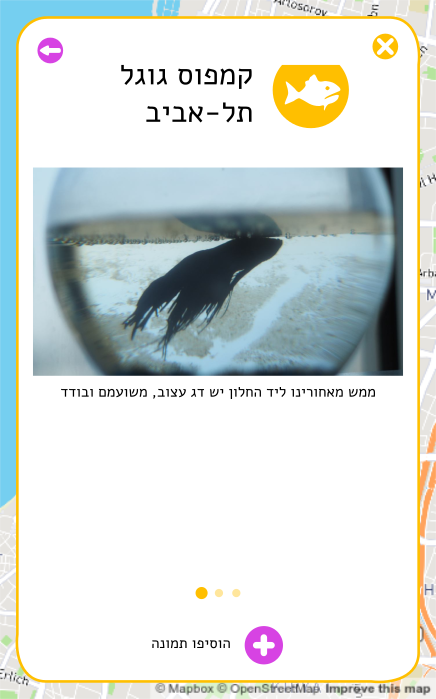
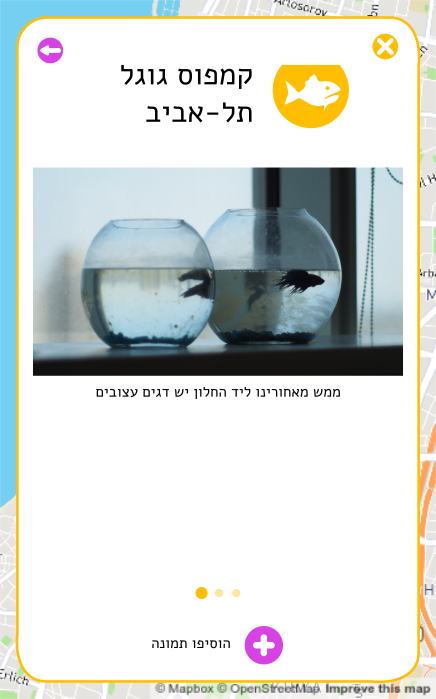
almost finished :) all mockups are in

Changed region(s): [[0.0596, 0.2403, 0.9243, 0.5708]]

diff --git a/index.html b/index.html
@@ -45,57 +45,31 @@
         </div>
 
         <div id="title2" class="step" data-x="0" data-y="0" data-rotate-x="90" data-scale="8">
-            <img class="mockup-screen" src="images/opening-splash.png"/>
+            <img class="mockup-screen" src="images/good-only.png"/>
         </div>
 
         <div id="title3" class="step" data-x="0" data-y="0" data-rotate-x="90" data-rotate-y="90" data-scale="8">
+            <img class="mockup-screen" src="images/all-places.png"/>
+        </div>
+
+        <div id="title4" class="step" data-x="850" data-y="3000" data-rotate="90" data-scale="2">
             <img class="mockup-screen" src="images/tara.png"/>
         </div>
 
-        <div id="its" class="step" data-x="850" data-y="3000" data-rotate="90" data-scale="2">
-            <p>They are a nice social networks feature but they are not a real <strong> measuring tool...</strong>
-                <br/>
+        <div id="title5" class="step" data-x="850" data-y="3000" data-rotate="90" data-scale="2">
+            <img class="mockup-screen" src="images/conversation.png"/>
         </div>
 
-
-        <div id="its-in-3d" class="step" data-x="850" data-y="7500" data-rotate="90" data-rotate-x="-40" data-rotate-y="10" data-scale="6">
-            <p>after all - we do have information about <span class="have"># of commits</span>, <span class="you">issues</span>, <span class="noticed">pull requests</span>...</p>
-            <p>they might be more useful when we are looking at a project</p>
+        <div id="title6" class="step" data-x="850" data-y="3000" data-rotate="90" data-scale="2">
+            <img class="mockup-screen" src="images/office.png"/>
         </div>
 
-        <div class="step" data-x="-3000" data-y="7500" data-rotate="90" data-scale="7">
-            <q>So here are some GitHub Trending information from now</q>
-            <!-- <img src="images/Trending_repositories_on_GitHub_today.png"/> -->
+        <div id="title6" class="step" data-x="850" data-y="3000" data-rotate="90" data-scale="2">
+            <img class="mockup-screen" src="images/fish.png"/>
         </div>
 
-        <div class="step technology" data-x="-18500" data-y="7500" data-rotate="0" data-scale="5">
-            <h2>Periodic System</h2>
-            <p>every 6 hours:</p>
-            <ol>
-                <li>- scrapes the GitHub tranding page and pass projects to the scrapers</li>
-                <li>- removes project from the DB to keep the 500 with highest Krihelimeters</li>
-                <li>- re-analyses (re-scrape all the projects from the DB)</li>
-            </ol>
-            <!-- <img src="images/Trending_repositories_on_GitHub_today.png"/> -->
-        </div>
-
-        <div class="step technology" data-x="-7500" data-y="7500" data-rotate="0" data-scale="5">
-            <img src="images/krihelinator.svg" height="700px" />
-        </div>
-
-        <div id="impress" class="step slide" data-x="-10000" data-y="10000">
-            <q>Thanks!<br>
-        <p>The Krihelinator</p>
-        </q>
-            <blockquote>
-                "Trendiness of OSS should be assessed by contribution rate, not by stars"
-                <br>
-                <span class="quotes">- Meir Kriheli (meirkriheli.com)</span>
-            </blockquote>
-            <br>
-            <href a src="http://krihelinator.xyz/">Live at: http://krihelinator.xyz/</href>
-            <br>
-            <href a src="https://github.com/nagasaki45/krihelinator/">Project on GitHub: nagasaki45/krihelinator</href>
+        <div id="final" class="step" data-x="0" data-y="0" data-scale="10">
+            <img class="mockup-screen" src="images/opening-splash.png"/>
         </div>
 
         <!-- <div id="overview" class="step" data-x="3000" data-y="1500" data-scale="10"> -->
